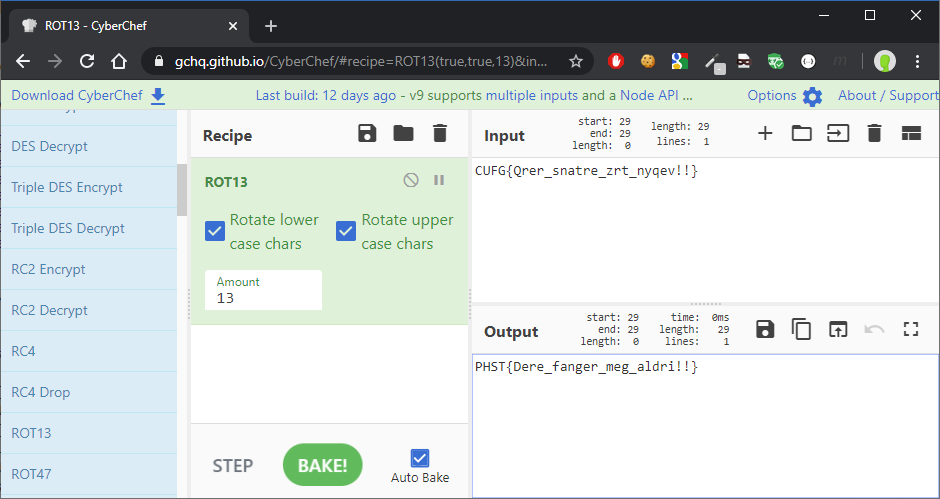
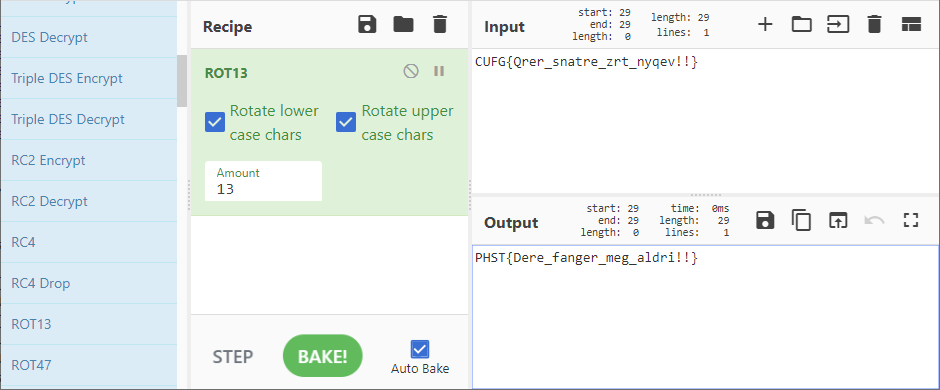
.

diff --git a/skjærtorsdag/README.md b/skjærtorsdag/README.md
@@ -38,7 +38,7 @@ user@host:~/phst$
 ### Caesar cipher
 `CUFG{Qrer_snatre_zrt_nyqev!!}` is clearly a flag, but also clearly scrambled in some way. Let's rule out the simplest solution first.
 
-![caesar.png]()
+![caesar.png](https://raw.githubusercontent.com/jyggorath/phst-writeup/master/skj%C3%A6rtorsdag/caesar.png?token=ABN2A5UV6JZD6IS6IJ55ES26SGZYK)
 
 And what do you know, it was ROT13.
 
